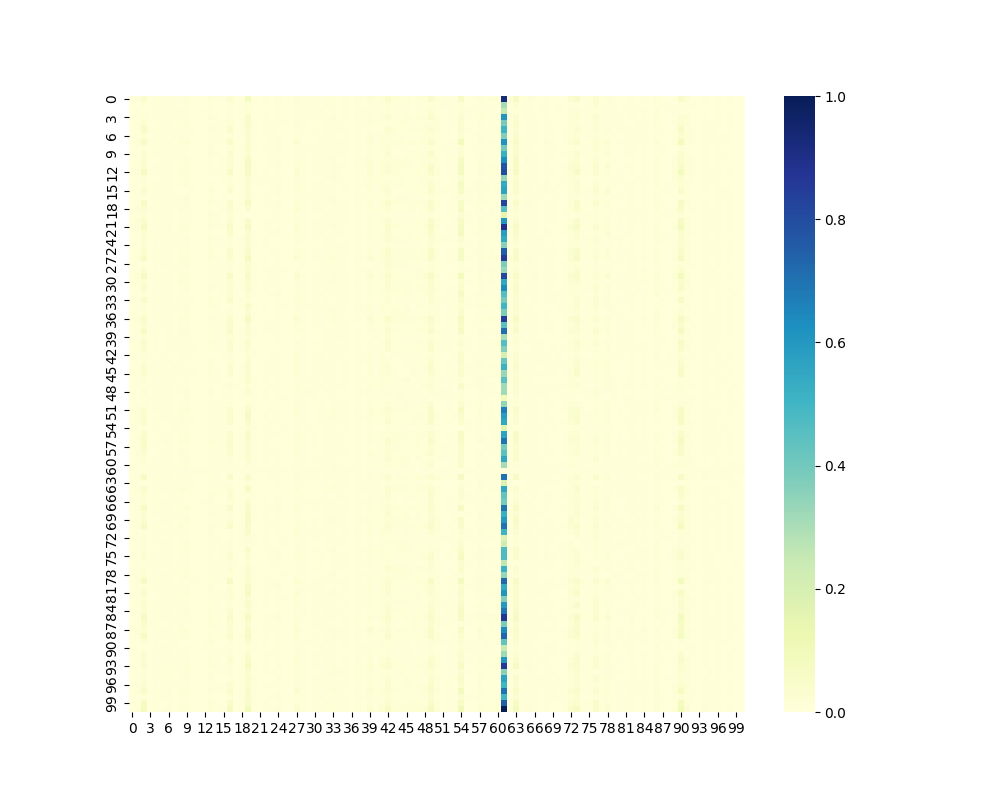
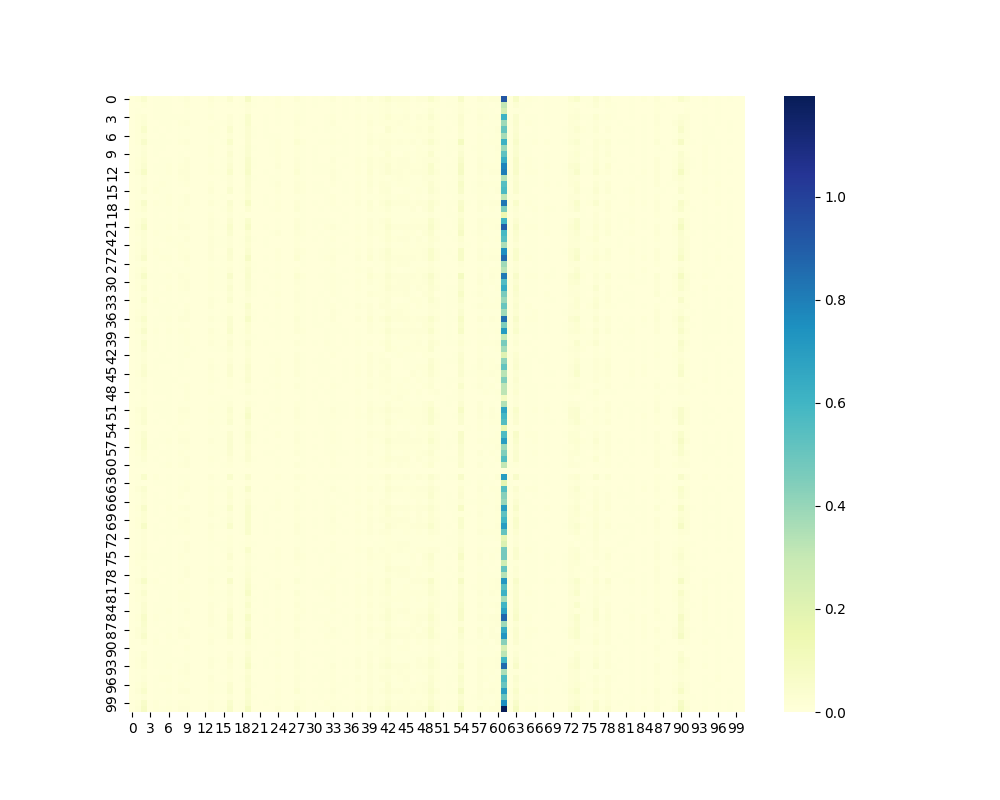
ReLU plotting debugging - not perfect commit

Changed region(s): [[0.496, 0.125, 0.527, 0.875]]

diff --git a/experiments/mnist_relu_interactions/run_relu_similarity.py b/experiments/mnist_relu_interactions/run_relu_similarity.py
@@ -97,9 +97,9 @@ def get_nested_attribute(obj, attr_name):
 
 def relu_plotting(similarity_matrices: list[Float[Tensor, "d_hidden d_hidden"]], out_dir: Path, relu_metric_type: int, edit_weights: bool) -> None:
     for i, similarity_matrix in enumerate(list(similarity_matrices.values())):
-        if relu_metric_type == 1: # Threshold before plotting unsorted
-            threshold = 1
-            similarity_matrix[similarity_matrix > threshold] = threshold
+        # if relu_metric_type == 1: # Threshold before plotting unsorted
+        #     threshold = 1
+        #     similarity_matrix[similarity_matrix > threshold] = threshold
 
         # Plot raw matrix values before clustering
         plt.figure(figsize=(10, 8))
@@ -123,7 +123,7 @@ def relu_plotting(similarity_matrices: list[Float[Tensor, "d_hidden d_hidden"]],
                 # Transform into distance matrix
                 distance_matrix = 1 - similarity_matrix
             case 1:
-                similarity_matrix = torch.min(
+                similarity_matrix = torch.max(
                     similarity_matrix, similarity_matrix.T) # Make symmetric
                 # similarity_matrix = rescale(similarity_matrix)
                 distance_matrix = similarity_matrix
@@ -181,7 +181,7 @@ def get_relu_similarities(config_path_str: str, file_path: Path, relu_metric_typ
 
     device = "cuda" if torch.cuda.is_available() else "cpu"
     mlp = load_mlp(model_config_dict, config.mlp_path, device=device)
-    print_all_modules(mlp) # Check module names were correctly defined
+    # print_all_modules(mlp) # Check module names were correctly defined
     layer_list = ["layers.0.linear", "layers.1.linear"]
     if edit_weights:
         for layer in layer_list:
@@ -190,13 +190,13 @@ def get_relu_similarities(config_path_str: str, file_path: Path, relu_metric_typ
     mlp.to(device=torch.device(device), dtype=TORCH_DTYPES[config.dtype])
     hooked_mlp = HookedModel(mlp)
 
-    test_loader = load_mnist_dataloader(
+    train_loader = load_mnist_dataloader(
         train=True, batch_size=config.batch_size)
 
     relu_matrices: dict[str, Float[Tensor, "d_hidden d_hidden"]] = collect_relu_interactions(
         hooked_model=hooked_mlp,
         module_names=config.module_names,
-        data_loader=test_loader,
+        data_loader=train_loader,
         dtype=TORCH_DTYPES[config.dtype],
         device=device,
         relu_metric_type=relu_metric_type

diff --git a/experiments/mnist_relu_interactions/run_Cs_Ws.py b/experiments/mnist_relu_interactions/run_Cs_Ws.py
@@ -187,6 +187,7 @@ def get_rotated_Ws(
 
     device = "cuda" if torch.cuda.is_available() else "cpu"
     mlp = load_mlp(model_config_dict, config.mlp_path, device=device)
+    mlp.eval()
 
     weights_list = extract_weights(mlp)
     rotated_weights_list = []
@@ -199,8 +200,17 @@ def get_rotated_Ws(
     return rotated_weights_list
 
 
+def get_fhats(
+    config_path_str: str,
+    file_path: str,
+
+)
+
 def check_and_open_file(file_path: Path, get_var_fn: callable, config_path_str: str, **kwargs) -> Union[Any, tuple[Any, ...]]:
-    """Load information from pickle file into a variable and return it."""
+    """Load information from pickle file into a variable and return it.
+
+    Note the return type is overloaded to allow for tuples.
+    """
     if file_path.exists():
         with file_path.open("rb") as f:
             var = pickle.load(f)
@@ -219,6 +229,7 @@ def Cs_Ws_main(config_path_str: str) -> None:
 
     Cs_save_file = Path(__file__).parent / "Cs"
     Ws_save_file = Path(__file__).parent / "Ws"
+    fhats_save_file = Path(__file__).parent / "fhats"
 
     # List of InteractionRotation objects
     C_info_dict: dict[str, list[InteractionRotation]] = check_and_open_file(
@@ -234,6 +245,12 @@ def Cs_Ws_main(config_path_str: str) -> None:
         get_var_fn=get_rotated_Ws,
         config_path_str=config_path_str,
         C_pinv_list=C_pinv_list
+    )
+
+    fhats = check_and_open_file(
+        file_path =fhats_save_file,
+        get_var_fn=get_fhats,
+        config_path_str=config_path_str
     )
 
     plot(C_list, "C", out_dir)
